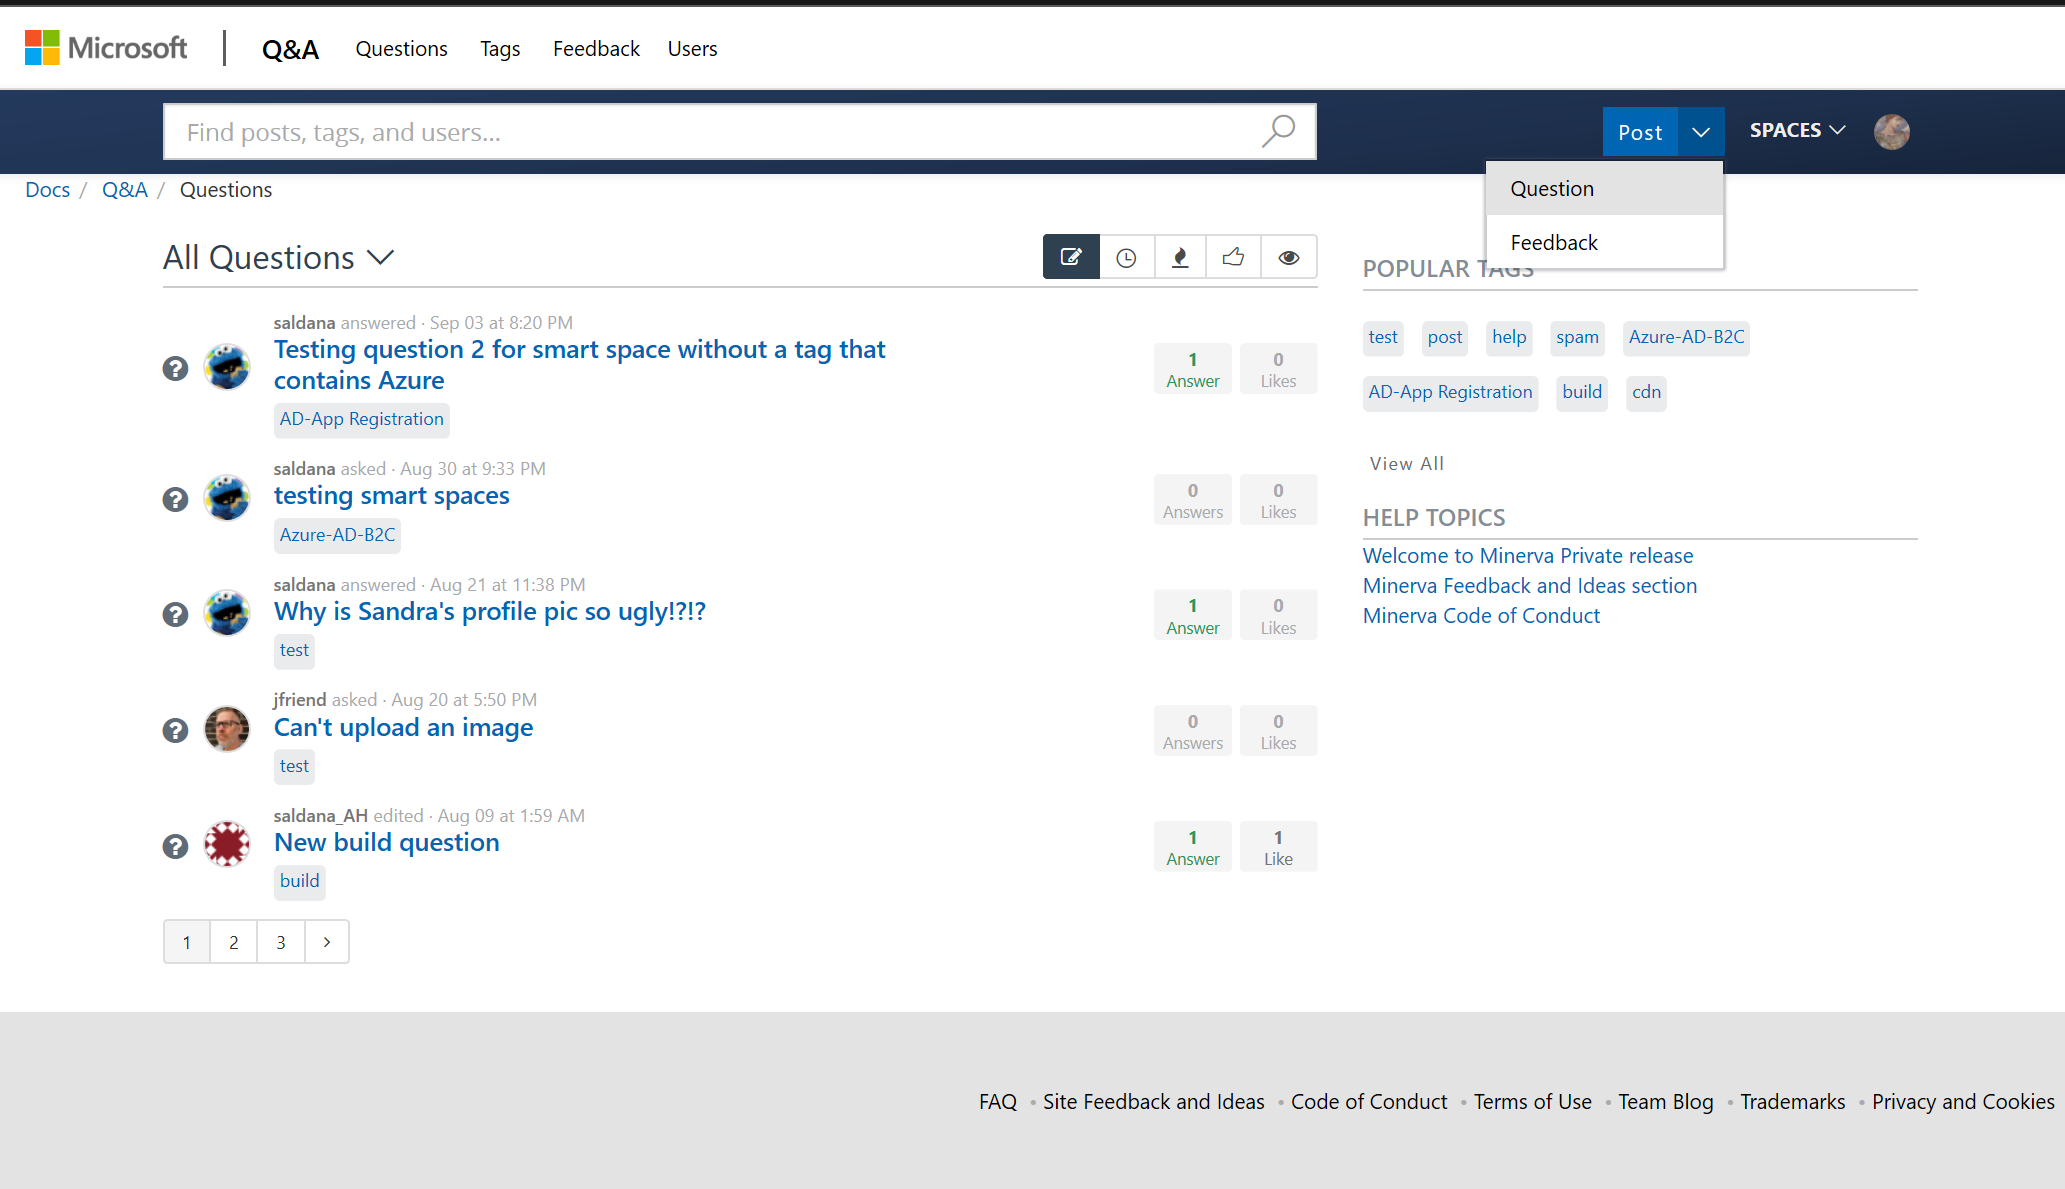
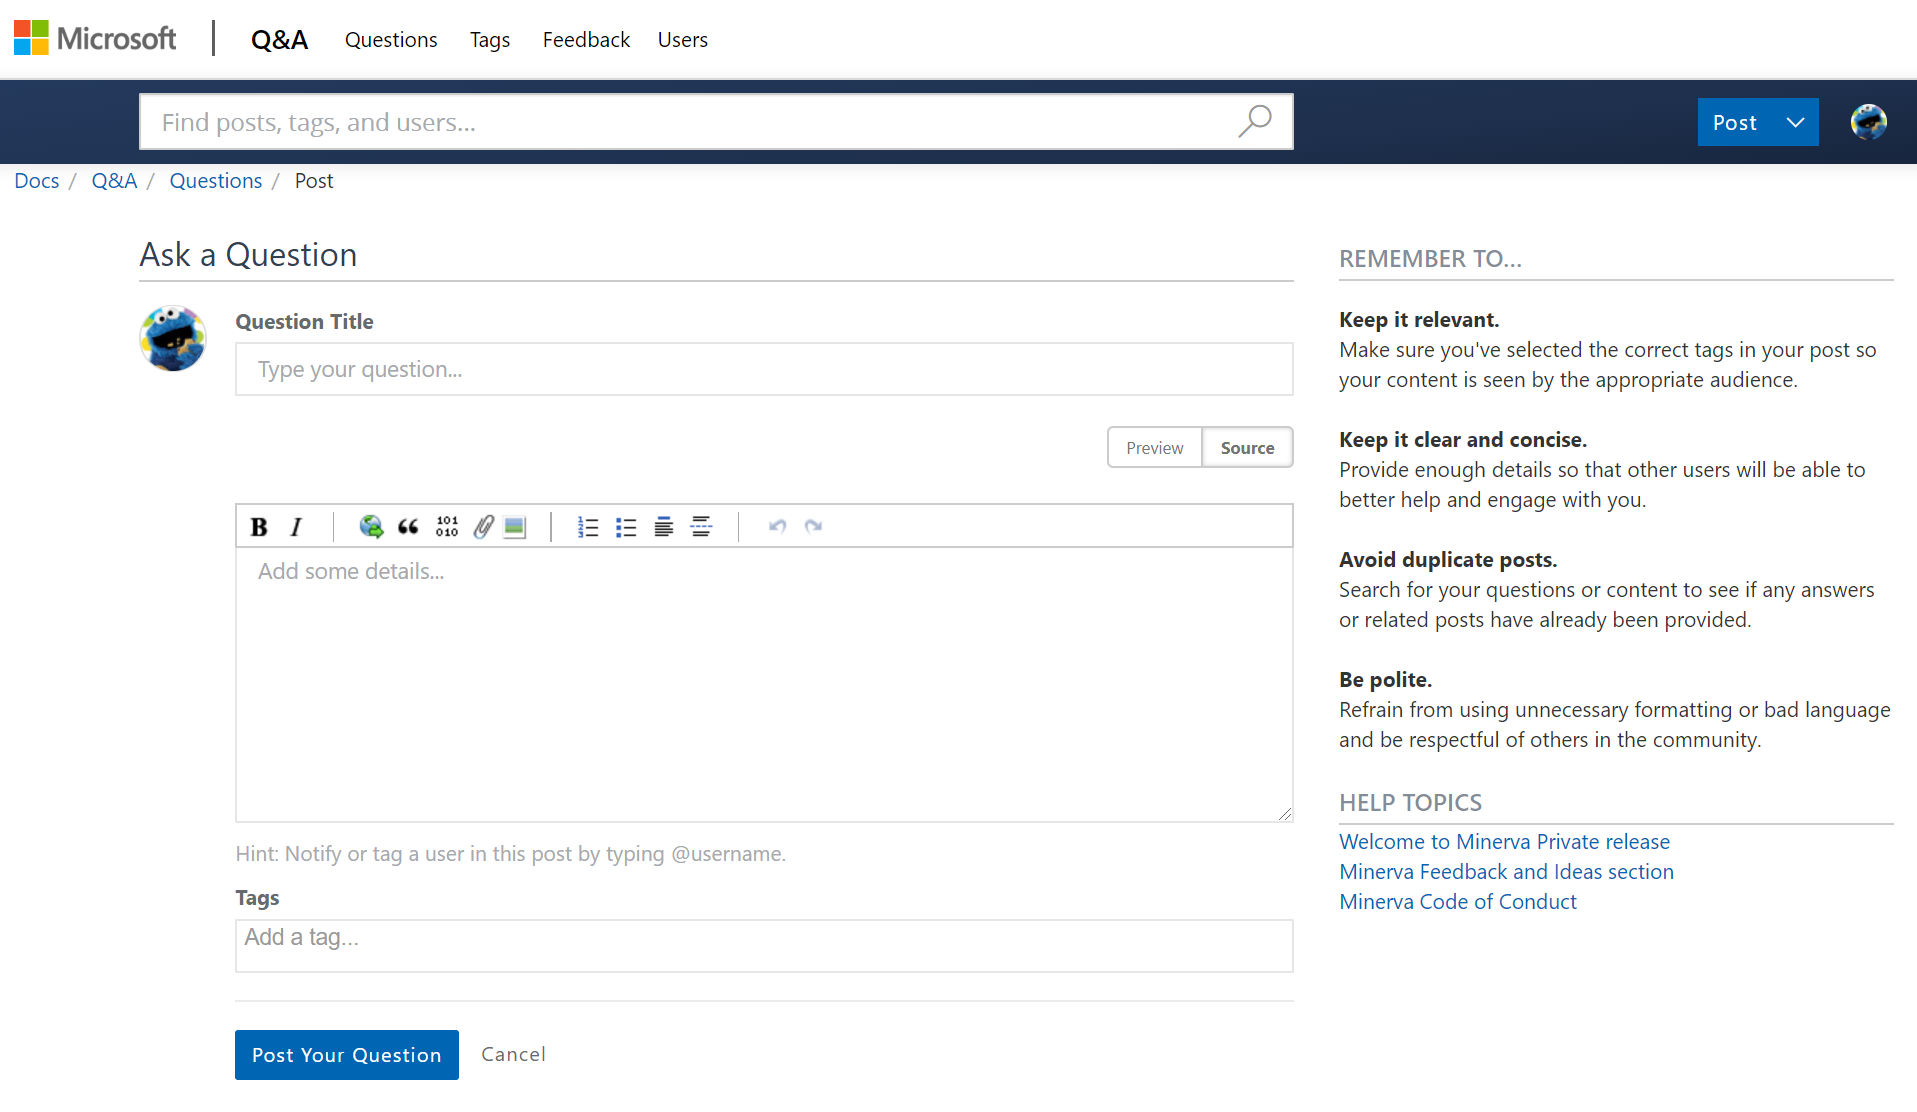
Added user guides for askers

diff --git a/microsoft-qa-docs/user-experience-guides/asker.md b/microsoft-qa-docs/user-experience-guides/asker.md
@@ -5,14 +5,96 @@
 
 ## Asking a Question from Home Page
 
-User clicks on the Post - Ask a Question option on the blue bar.
+Click on the "Post" - "Question" option on the blue bar.
 
 ![click on post a question](media/post-question-1.PNG)
 
+The "Ask a Question" page loads.
+
+![post a question blank](media/post-question-1.png)
+
+When entering your question, you will see similar questions already asked by other users. The number on the lef indicates the number of votes, the number on the right, the number of answers the similar question has.
+
+![post a question's similar questions](media/post-question-2.png)
+
+- If you think the question is the same than yours, clicking on it will take you to that question.
+- If you do not think any of those questions are what you need, continue entering the question in this page.
+
+In the question body, you can enter all details about your question. In order to get a good answer, be as precise as possible, adding images, files, or code for support. Do not include any confidential information.
+
+Tags are essential in Q&A. Thus, at least a tag is mandatory. You can enter up to 5 tags.
+
+Only Dev Relations' Minerva team can create tags, so you can select from the given tags by typing a character, and you can see a list of the available matches.
+
+![post question tagging](media/post-question-3.png)
+
+Click on the "Post your question" button to publish your question on Microsoft Q&A.
+
 ## Asking a Question after Searching in Q&A Site
 
-## Accepting an Answer
+> [!NOTE]
+> Search action does not require you to be signed in.
+
+You might decide to look for questions manually in Q&A before posting. If so, click on the search box on the blue toolbar on the top. You will see that you have some tips on how to look just in certain areas (such as title, or tags). You can see more details about scoped by clicking on the "Advanced Search Tips" link.
+
+![search options](media/search-1.png)
+
+As soon as you start typing in the Search box, you will see content matches. The icons indicate whether the content type is a question, article, feedback, etc.
+
+![search hits](media/search-2.png)
+
+- If you click on any of the hits, it will take you that particular node.
+- If you press Enter, it will take you to the results page. In here, you can see more information about all the hits matching your criteria and you can also fine tune your criteria to scope down the results more.
+
+> [!IMPORTANT]
+> You might see a discrepancy between the number of results and the actual number of results you see. This might be because you cannot see all site content, such as content in moderation.
+
+![search results](media/search-3.png)
+
+Here is an animated gif of the experience:
+
+![search experience animation](media/search-ani.gif)
+
+If you are not satisfied with any of the results, you can ask your question as described in the [Sign in process](index.md#sign-in-process).
+
+## Accepting a Reply
+
+> [!IMPORTANT]
+> This scenario assumes that you already asked a question, another user answered your question, and you are going to accept it.
+
+1. Click on the question you asked.
+1. Select the reply you feel solves the problem.
+1. Click on "Accept".
+1. The reply will be labelled with "Accepted Answer" and its background will change to green.
+
+![accept an answer](media/accept-answer.gif)
 
 ## Voting on a Question
 
-## Voting on an Answer
+> [!TIP]
+> Please vote on a question when another user asked a question related to a problem you have.
+
+> [!NOTE]
+> You can only vote once for a given question.
+
+> [!IMPORTANT]
+> You can not vote on your own question.
+
+1. Open the question you would like to vote on.
+1. Click on the up arrow.
+1. To remove your vote, click on the same control
+
+![vote on a question](media/vote-question.gif)
+
+## Voting on an Reply or an Answer
+
+> [!TIP]
+> Please vote on an answer or a reply when the user response solves your problem.
+
+> [!NOTE]
+> You can only vote once for a given reply or answer.
+
+> [!IMPORTANT]
+> You can not vote on your own reply or answer.
+
+![vote on an answer or a reply](media/vote-answer.gif)

diff --git a/microsoft-qa-docs/glossary.md b/microsoft-qa-docs/glossary.md
@@ -1,0 +1,5 @@
+# Glossary
+
+- **Answer**: An accepted Reply by the original poster.
+- **Comment**: A clarifying written entry to a question.
+- **Reply**: A response to another user's question.
